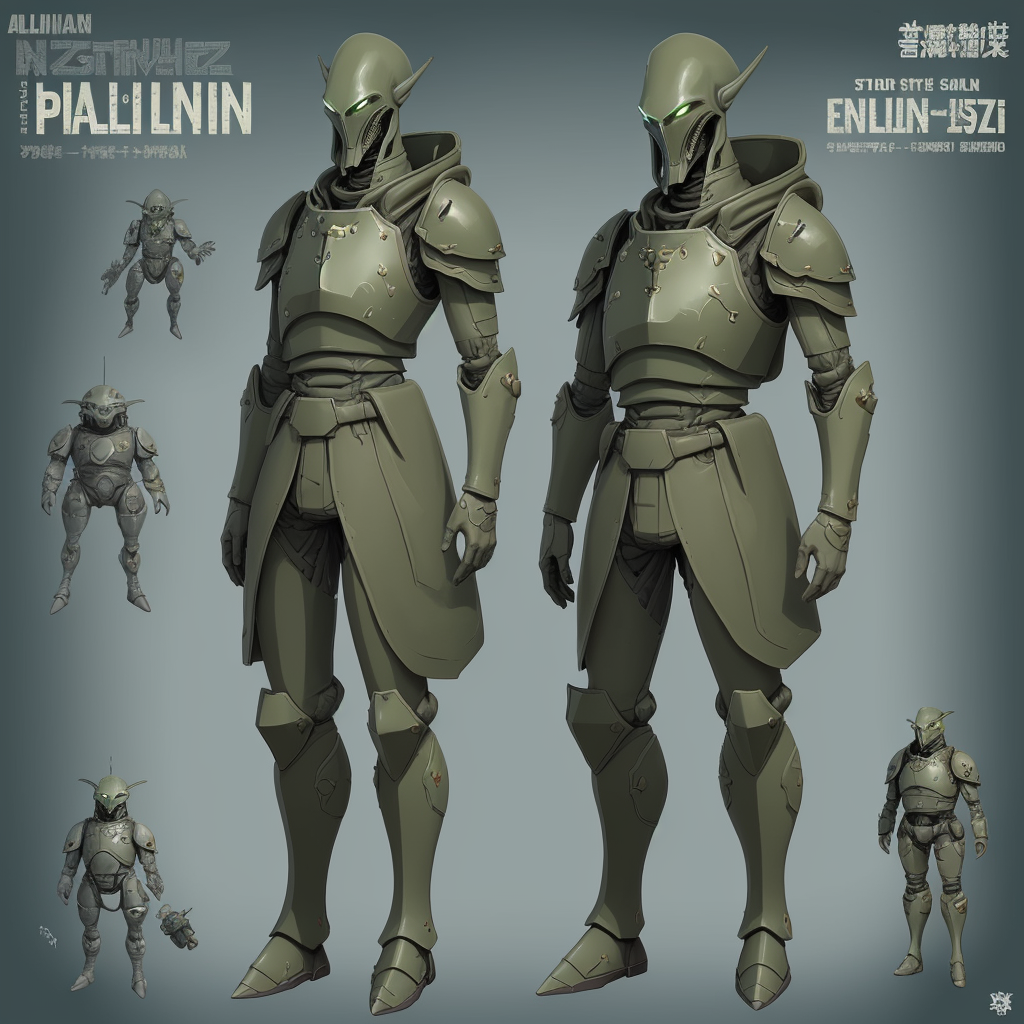
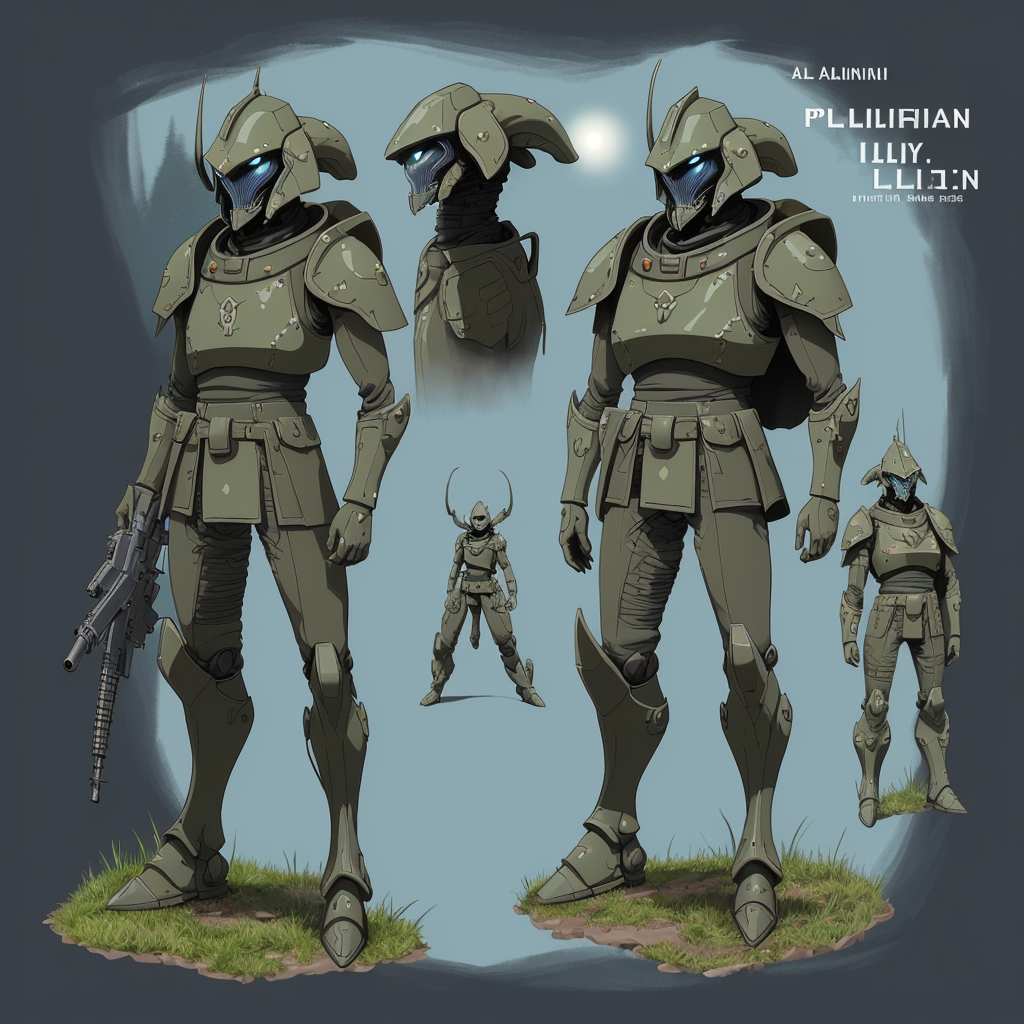
Added image 2692d5d19ec6b47f5ee135f3261135d0 to Caneta-Silva/weeb

diff --git a/images/2692d5d19ec6b47f5ee135f3261135d0/2692d5d19ec6b47f5ee135f3261135d0.md b/images/2692d5d19ec6b47f5ee135f3261135d0/2692d5d19ec6b47f5ee135f3261135d0.md
@@ -9,28 +9,28 @@
 | Field          | Value                                                                                                                     |
 |----------------|---------------------------------------------------------------------------------------------------------------------------|
 | **Image ID**             | 2692d5d19ec6b47f5ee135f3261135d0                                                                                                             |
-| **Title**           | The Intergalactic Guardian: An Alien Paladin of Peace                                                                                                       |
+| **Title**           | Alien Paladin Military in Studio Ghibli Style Landscape                                                                                                       |
 | **Description**           | Create a landscape full body image of a alien paladin style military in the style of Studio Ghibli                                                                                                       |
-| **CreatedAt**        | 2024-12-18 06:30:54.726480                                                                                                        |
+| **CreatedAt**        | 2024-12-18 06:39:59.297578                                                                                                        |
 | **Model**        | dreamshaper                                                                                                        |
-| **OpenAI**         | [OpenAI Image URL](http://192.168.1.85:8081/generated-images/b642238671388.png)                                                                                |
+| **OpenAI**         | [OpenAI Image URL](http://192.168.1.85:8081/generated-images/b643708051748.png)                                                                                |
 | **GitHub**         | [GitHub Image URL](https://raw.githubusercontent.com/Caneta-Silva/weeb/refs/heads/main/images/2692d5d19ec6b47f5ee135f3261135d0/2692d5d19ec6b47f5ee135f3261135d0.jpg)                                                                                |
 | **Tags**       | None                                                                                                                   |
 
-### 📜 e8f26f1220d27b0fef3b9bca8671b394
+### 📜 0438fc197df1b8aaa3d59a8e7c5a49c2
 
 > Create a landscape full body image of a alien paladin style military in the style of Studio Ghibli
 
 | Field          | Value                                                                                                                                                                      |
 |----------------|----------------------------------------------------------------------------------------------------------------------------------------------------------------------------|
-| **Prompt ID**  | e8f26f1220d27b0fef3b9bca8671b394                                                                                                                                                            |
+| **Prompt ID**  | 0438fc197df1b8aaa3d59a8e7c5a49c2                                                                                                                                                            |
 | **Prompt History** | <ul><li>**Input:**  <br> **Output:**  <br> **Type:** </li></ul> |
 | **Created At** |                                                                                                                                                    |
 | **Revised At** | None                                                                                                                                                   |
 | **Revised Prompt** | No                                                                                                                                                                      |
 | **Enhanced At** | None                                                                                                                                                  |
 | **Enhanced Prompt** | No                                                                                                                                                                    |
-| **Metadata**   | <ul><li>**Element:** paladin style military <br> **Style:** Studio Ghibli <br> **Aspect Ratio:** landscape <br> **Backdrop:** desert <br> **Animal:** deer <br> **Modifiers:**<ul><li>**Image:** full body</li><li>**Element:** alien</li><li>**Backdrop:** futuristic</li></ul></li></ul> |
+| **Metadata**   | <ul><li>**Element:** paladin style military <br> **Style:** Studio Ghibli <br> **Aspect Ratio:** landscape <br> **Backdrop:** waterfall <br> **Animal:** deer <br> **Modifiers:**<ul><li>**Image:** full body</li><li>**Element:** alien</li><li>**Backdrop:** futuristic alien</li></ul></li></ul> |
 | **Template**   | Create a {{ aspect_ratio }} {{ modifiers.image }} image of a {{ modifiers.element }} {{ element }} in the style of {{ style }}                                                                                                                                           |
 
 
